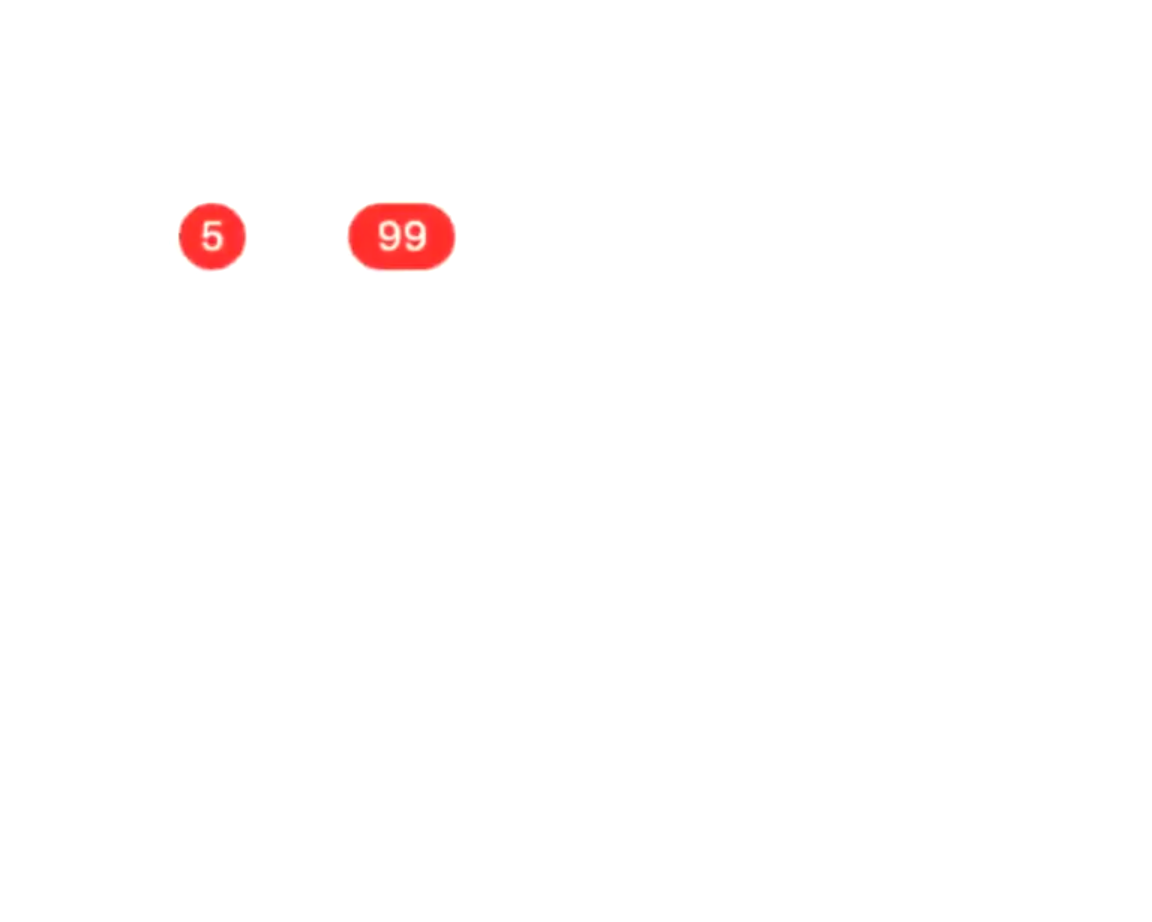
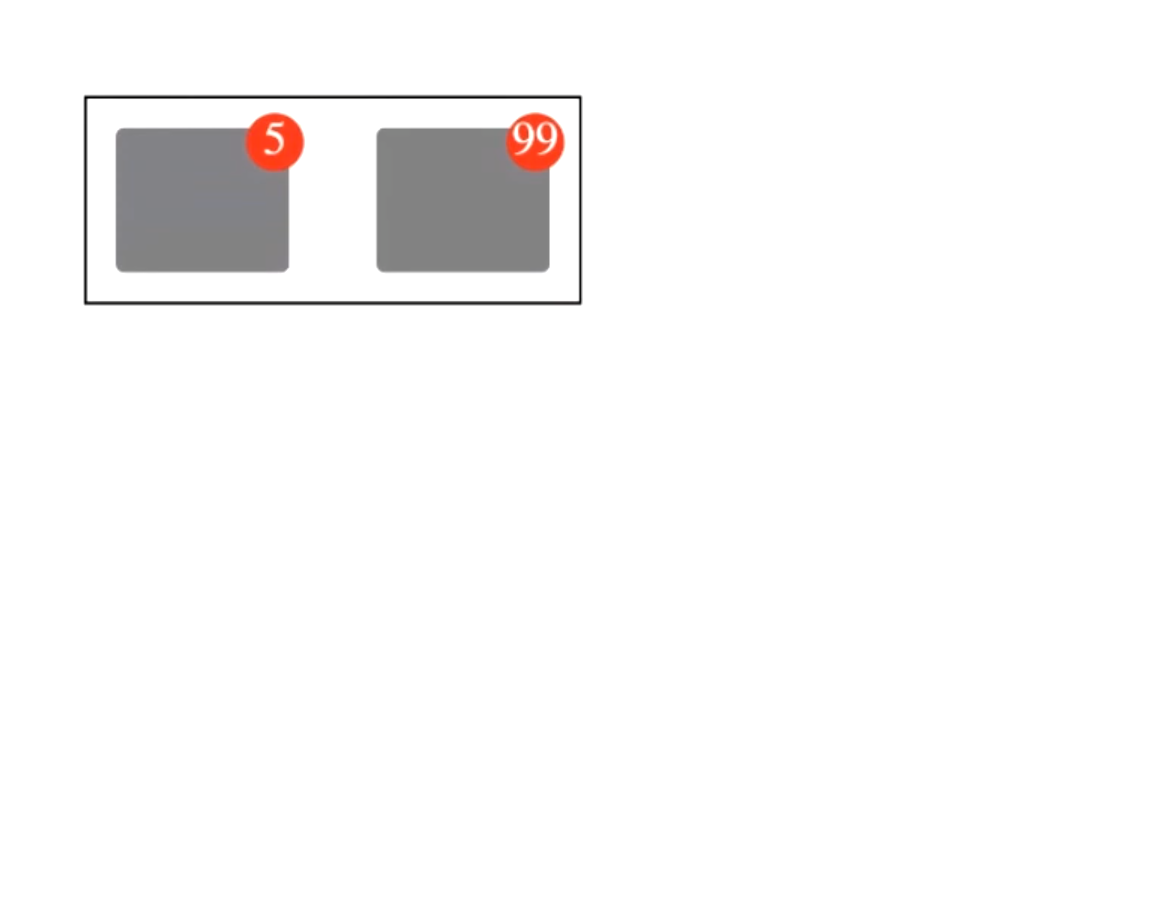
4/5 tasks done

Changed region(s): [[0.0625, 0.0911, 0.5312, 0.3341]]

diff --git a/positions/pos3.html b/positions/pos3.html
@@ -1,0 +1,68 @@
+<!DOCTYPE html>
+<html lang="en">
+<head>
+    <meta charset="UTF-8">
+    <meta http-equiv="X-UA-Compatible" content="IE=edge">
+    <meta name="viewport" content="width=device-width, initial-scale=1.0">
+    <title>Document</title>
+    <style>
+        body, html{
+            background-color: black;
+            height: 100%;
+            width: 100%;
+            position: relative;
+            margin: 0;
+        }
+        span{
+            height: 20px;
+            width: 20px;
+            color: white;
+            display: inline-block;
+            background-color: red;
+            border-radius: 50%;
+            text-align: center;
+            vertical-align: center;
+            position: absolute;
+            top: -5px;
+            right: -5px;
+        }
+        .container{
+            position: absolute;
+            border: 2px solid white;
+            width: 150px;
+            height: 70px;
+            top: 50%;
+            left: 50%;
+            transform: translate(-50%, -50%);
+        }
+        .block:first-child{
+            position: relative;
+            border-radius: 5px;
+            width: 60px;
+            height: 50px;
+            background-color: gray;
+            top: 10px;
+            left: 10px;
+        }
+        .block:last-child{
+            position: absolute;
+            border-radius: 5px;
+            width: 60px;
+            height: 50px;
+            background-color: gray;
+            top: 10px;
+            right: 10px;
+        }
+    </style>
+</head>
+<body>
+    <div class="container">
+          <div class="block">
+            <span>5</span>
+          </div>
+          <div class="block">
+            <span>99</span>
+         </div>
+    </div>
+</body>
+</html>

diff --git a/positions/pos1.html b/positions/pos1.html
@@ -1,0 +1,44 @@
+<!DOCTYPE html>
+<html lang="en">
+<head>
+    <meta charset="UTF-8">
+    <meta http-equiv="X-UA-Compatible" content="IE=edge">
+    <meta name="viewport" content="width=device-width, initial-scale=1.0">
+    <title>Position</title>
+    <style>
+        body{
+            height: 100%;
+            width: 100%;
+            background-color: purple;
+        }
+        div {
+            height: 50px;
+            width: 100px;
+            background-color: white;
+            position: absolute;
+        }
+        .top-left{
+            top: 20px;
+            left: 20px;
+        }
+        .top-right{
+            top: 20px;
+            right: 20px;
+        }
+        .bot-left{
+            bottom: 20px;
+            left: 20px;
+        }
+        .bot-right{
+            bottom: 20px;
+            right: 20px;
+        }
+    </style>
+</head>
+<body>
+    <div class="top-left"></div>
+    <div class="top-right"></div>
+    <div class="bot-left"></div>
+    <div class="bot-right"></div>
+</body>
+</html>

diff --git a/positions/pos4.html b/positions/pos4.html
@@ -1,0 +1,30 @@
+<!DOCTYPE html>
+<html lang="en">
+<head>
+    <meta charset="UTF-8">
+    <meta http-equiv="X-UA-Compatible" content="IE=edge">
+    <meta name="viewport" content="width=device-width, initial-scale=1.0">
+    <title>Document</title>
+    <style>
+        body{
+            background-color: black;
+        }
+        img{
+            height: 500px;
+            position: absolute;
+            z-index: -1;
+            top: 0;
+            left: 0;
+            filter: blur(3px);
+        }
+        h1, p{
+            color: cyan;
+        }
+    </style>
+</head>
+<body>
+    <h1>The Z-index property</h1>
+    <img src="picture.jpg" alt="">
+    <p>Because the image has a Z-index -1, it will be placed behind the heading and this paragraph.</p>
+</body>
+</html>

diff --git a/positions/pos2.html b/positions/pos2.html
@@ -1,0 +1,28 @@
+<!DOCTYPE html>
+<html lang="en">
+<head>
+    <meta charset="UTF-8">
+    <meta http-equiv="X-UA-Compatible" content="IE=edge">
+    <meta name="viewport" content="width=device-width, initial-scale=1.0">
+    <title>Document</title>
+    <style>
+        body{
+            background-color: blueviolet;
+            height: 100%;
+            width: 100%;
+        }
+        .container1{
+            background-color: white;
+            position: absolute;
+            height: 200px;
+            width: 400px;
+            top: 50%;
+            left: 50%;
+            transform: translate(-50%, -50%);
+        }
+    </style>
+</head>
+<body>
+    <div class="container1"></div>
+</body>
+</html>
